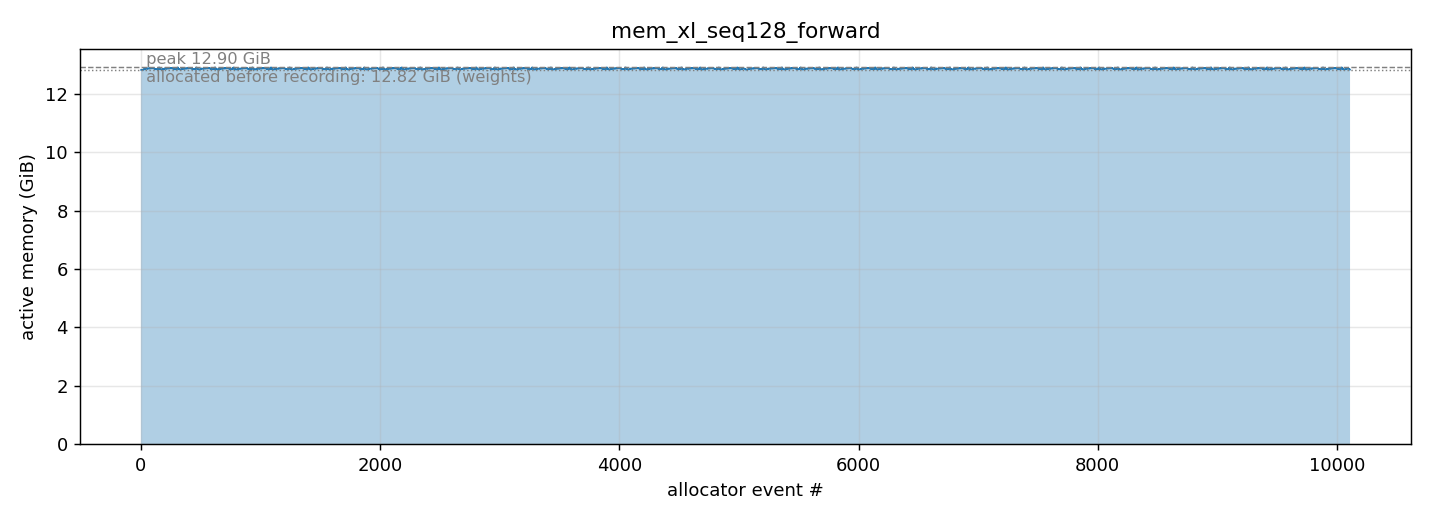
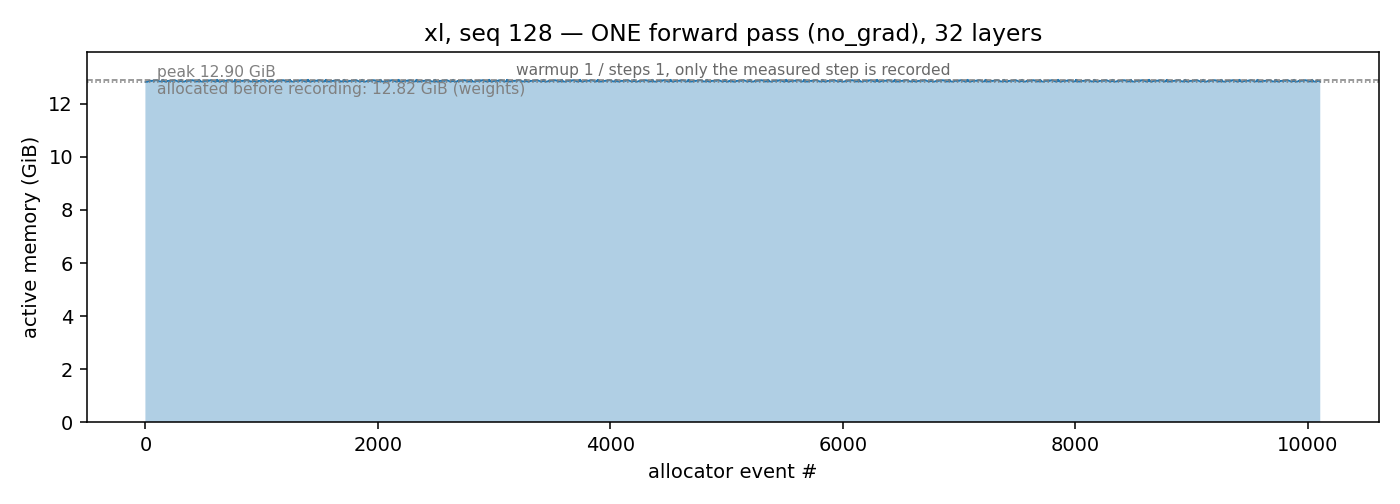
feat(bench): memory.plot_snapshot 从 pickle 画显存曲线，标题注明 one forward pass / 32 layers；notebook 加画图 cell

diff --git a/hw2/benchmark/memory.py b/hw2/benchmark/memory.py
@@ -32,6 +32,44 @@ def record_snapshot(path: str | None, max_entries: int = 1_000_000):
         print(f"显存快照已写出：{path}（拖进 https://pytorch.org/memory_viz 查看）")
 
 
+def plot_snapshot(pickle_path, out=None, *, title=None, subtitle=None):
+    """把 _dump_snapshot 的 pickle 画成 active memory 曲线（和 memory_viz 同一份 alloc/free 事件）。
+
+    横轴是分配事件序号不是时间。记录从预热后开始，所以曲线起点 = 那时已分配的权重。
+    """
+    import pickle
+    import matplotlib.pyplot as plt
+
+    pickle_path = Path(pickle_path)
+    d = pickle.load(open(pickle_path, "rb"))
+    tr = d["device_traces"][0]
+    live = {}                    # addr -> size；记录开始前就活着的块不在 trace 里，靠 segments 末态反推
+    base = sum(b["size"] for seg in d["segments"] for b in seg["blocks"] if b["state"] == "active_allocated")
+    cur, ys = 0, []
+    for e in tr:
+        if e["action"] == "alloc":
+            live[e["addr"]] = e["size"]; cur += e["size"]
+        elif e["action"] == "free_completed" and e["addr"] in live:
+            cur -= live.pop(e["addr"])
+        ys.append(cur)
+    start = base - cur           # 末态 active − trace 净增 = 记录开始时已分配
+    ys = [(start + y) / 2**30 for y in ys]
+    peak = max(ys)
+
+    fig, ax = plt.subplots(figsize=(10, 3.6))
+    ax.fill_between(range(len(ys)), ys, alpha=.35); ax.plot(ys, lw=.8)
+    ax.axhline(peak, ls="--", c="gray", lw=.8); ax.text(len(ys) * .01, peak, f"peak {peak:.2f} GiB", va="bottom", fontsize=8, c="gray")
+    ax.axhline(start / 2**30, ls=":", c="gray", lw=.8); ax.text(len(ys) * .01, start / 2**30, f"allocated before recording: {start/2**30:.2f} GiB (weights)", va="top", fontsize=8, c="gray")
+    ax.set_xlabel("allocator event #"); ax.set_ylabel("active memory (GiB)"); ax.set_ylim(0, peak * 1.08)
+    ax.set_title(title or pickle_path.stem)
+    if subtitle:
+        ax.text(.5, .97, subtitle, transform=ax.transAxes, ha="center", va="top", fontsize=8, c="dimgray")
+    fig.tight_layout()
+    if out:
+        fig.savefig(out, dpi=140)
+    return fig
+
+
 # ---- §2.5 (f)：从 nsys 的 sqlite 里算「一层 TransformerBlock 为反向存了多少」 -------------
 #
 # 采集：PYTORCH_NO_CUDA_MEMORY_CACHING=1 nsys profile --cuda-memory-usage=true --trace=cuda,nvtx -- \
